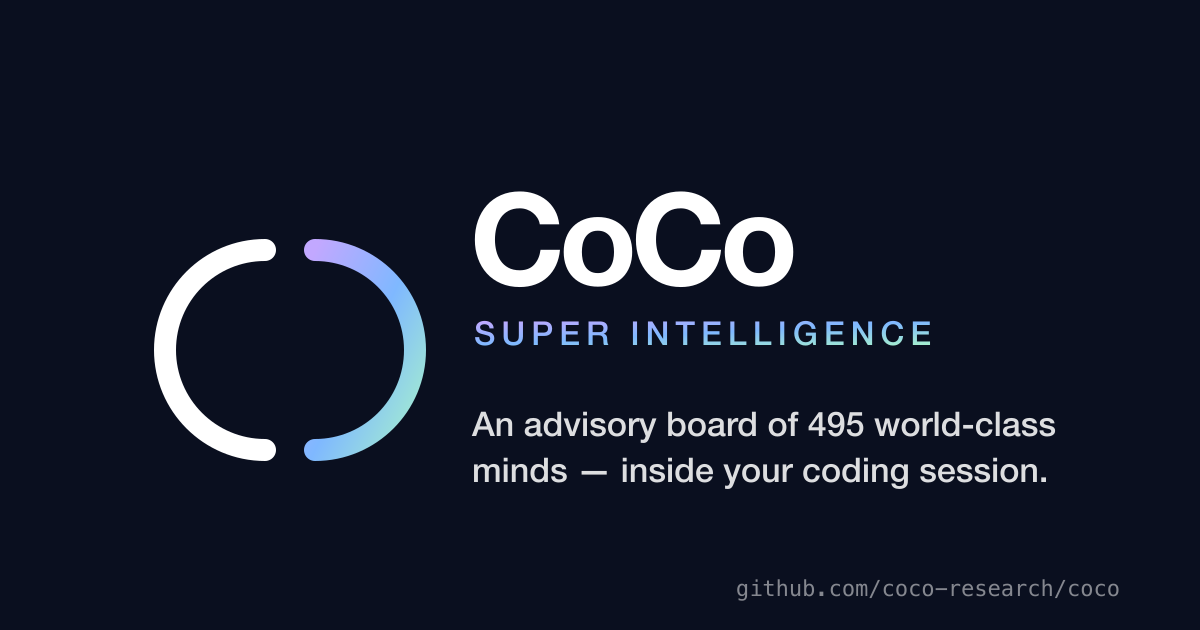
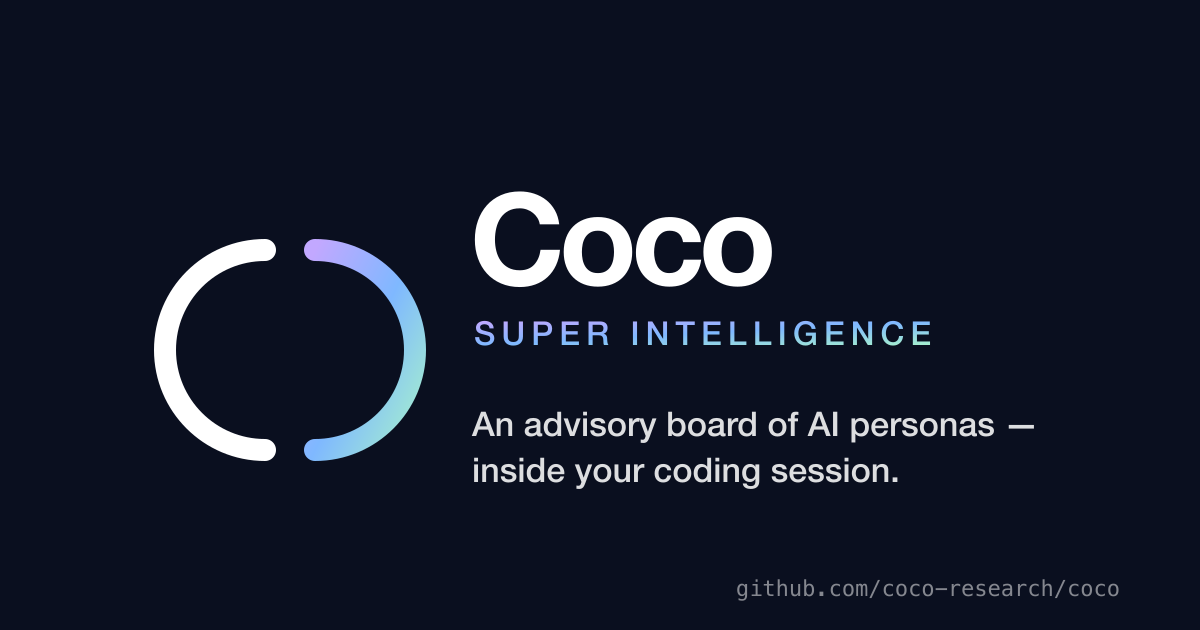
fix(site): og-image says Coco without a persona count, and the stale 389 board image is gone (#413)
SI-copy PR 3 (og-image fix + 389 image removal). Text and SVG (sha256 33375414e79b4b844abdb31fb291989b9a89911db32c56e525e62b27e6ad1268) as cleared by Kanika (Add. 6, rev5); Boss's own yes 2026-10-27 20:19 ET (via Emma) covers this SI-copy ship.
Boss rulings checked: none conflict

Changed region(s): [[0.4008, 0.7238, 0.8633, 0.7841], [0.5242, 0.3016, 0.6783, 0.4524], [0.6783, 0.6333, 0.8942, 0.6937]]

diff --git a/coco/index.html b/coco/index.html
@@ -306,11 +306,6 @@ video{display:block;width:100%;height:auto}
       averaged away. You get the reasoning, the split, and who held which line.
     </p>
 
-    <figure class="shot reveal" style="margin:48px auto 0;max-width:760px">
-      <img src="assets/coco-advisory-board-389.png" alt="495 expert personas across 13 departments, bar length proportional to each department's real headcount" width="1200" height="800" loading="lazy">
-      <figcaption class="fine" style="margin-top:14px">495 experts, broken out by department. Engineering carries the largest seat count, at 70.</figcaption>
-    </figure>
-
     <figure class="shot reveal" style="margin:36px auto 0;max-width:700px">
       <video src="assets/coco-si-decide-terminal.mp4" poster="assets/coco-si-decide-terminal.png" width="1200" height="750" muted playsinline preload="metadata" controls aria-label="A real SI-Decide run: a routed panel, a verdict, and named dissent"></video>
       <p class="fine" style="margin-top:8px">A real SI-Decide run: routed panel, verdict, named dissent.</p>

diff --git a/tests/check-site-counts.py b/tests/check-site-counts.py
@@ -60,8 +60,6 @@ CHECKS = [
     ('coco/index.html', r'<meta property="og:description" content="Each of the (\d+) requires a live, checkable source\. Then (\d+) skills', 'og:description (personas, skills)', (PERSONAS, SKILLS)),
     ('coco/index.html', r'<meta name="twitter:description" content="Each of the (\d+) requires a live, checkable source\. Then (\d+) skills', 'twitter:description (personas, skills)', (PERSONAS, SKILLS)),
     ('coco/index.html', r'<p class="sub reveal">Each of the (\d+) requires a live, checkable source\. Then (\d+) skills', 'on-page sub (personas, skills)', (PERSONAS, SKILLS)),
-    ('coco/index.html', r'(\d+) expert personas across (\d+) departments, bar length', 'hero image alt (personas, departments)', (PERSONAS, DEPARTMENTS)),
-    ('coco/index.html', r'(\d+) experts, broken out by department', 'figcaption (personas)', (PERSONAS,)),
     ('coco/index.html', r'<p class="n">(\d+)</p><p class="lbl">Expert personas</p>', 'stat tile (personas)', (PERSONAS,)),
     ('coco/index.html', r'<p class="n">(\d+)</p><p class="lbl">Departments</p>', 'stat tile (departments)', (DEPARTMENTS,)),
     ('coco/index.html', r'<p class="n">(\d+)</p><p class="lbl">Commands</p>', 'stat tile (commands)', (COMMANDS,)),

diff --git a/tests/check-persona-counts.py b/tests/check-persona-counts.py
@@ -2,7 +2,7 @@
 """Assert every published persona/department claim matches docs/asset-counts.json.
 
 Covers README.md, package.json, agents/README.md, docs/install.md, docs/INDEX.md,
-systems/superintelligence/HOW-IT-WORKS.html and assets/og-image.svg. The two
+systems/superintelligence/HOW-IT-WORKS.html. The two
 website pages (index.html, coco/index.html) are covered separately by
 check-site-counts.py, since they publish the same figures under a different set
 of patterns.
@@ -92,7 +92,6 @@ check_one('docs/install.md', r'`superintelligence` \| (\d+)-persona expert board
 check_one('docs/INDEX.md', r'(\d+)-persona expert board \(', 'by-system-bundle line')
 check_one('systems/superintelligence/HOW-IT-WORKS.html',
           r'<div class="stat"><b>(\d+)</b><span>modeled experts</span></div>', 'stat block')
-check_one('assets/og-image.svg', r'An advisory board of (\d+) world-class', 'social card text')
 
 print()
 if fail == 0:
